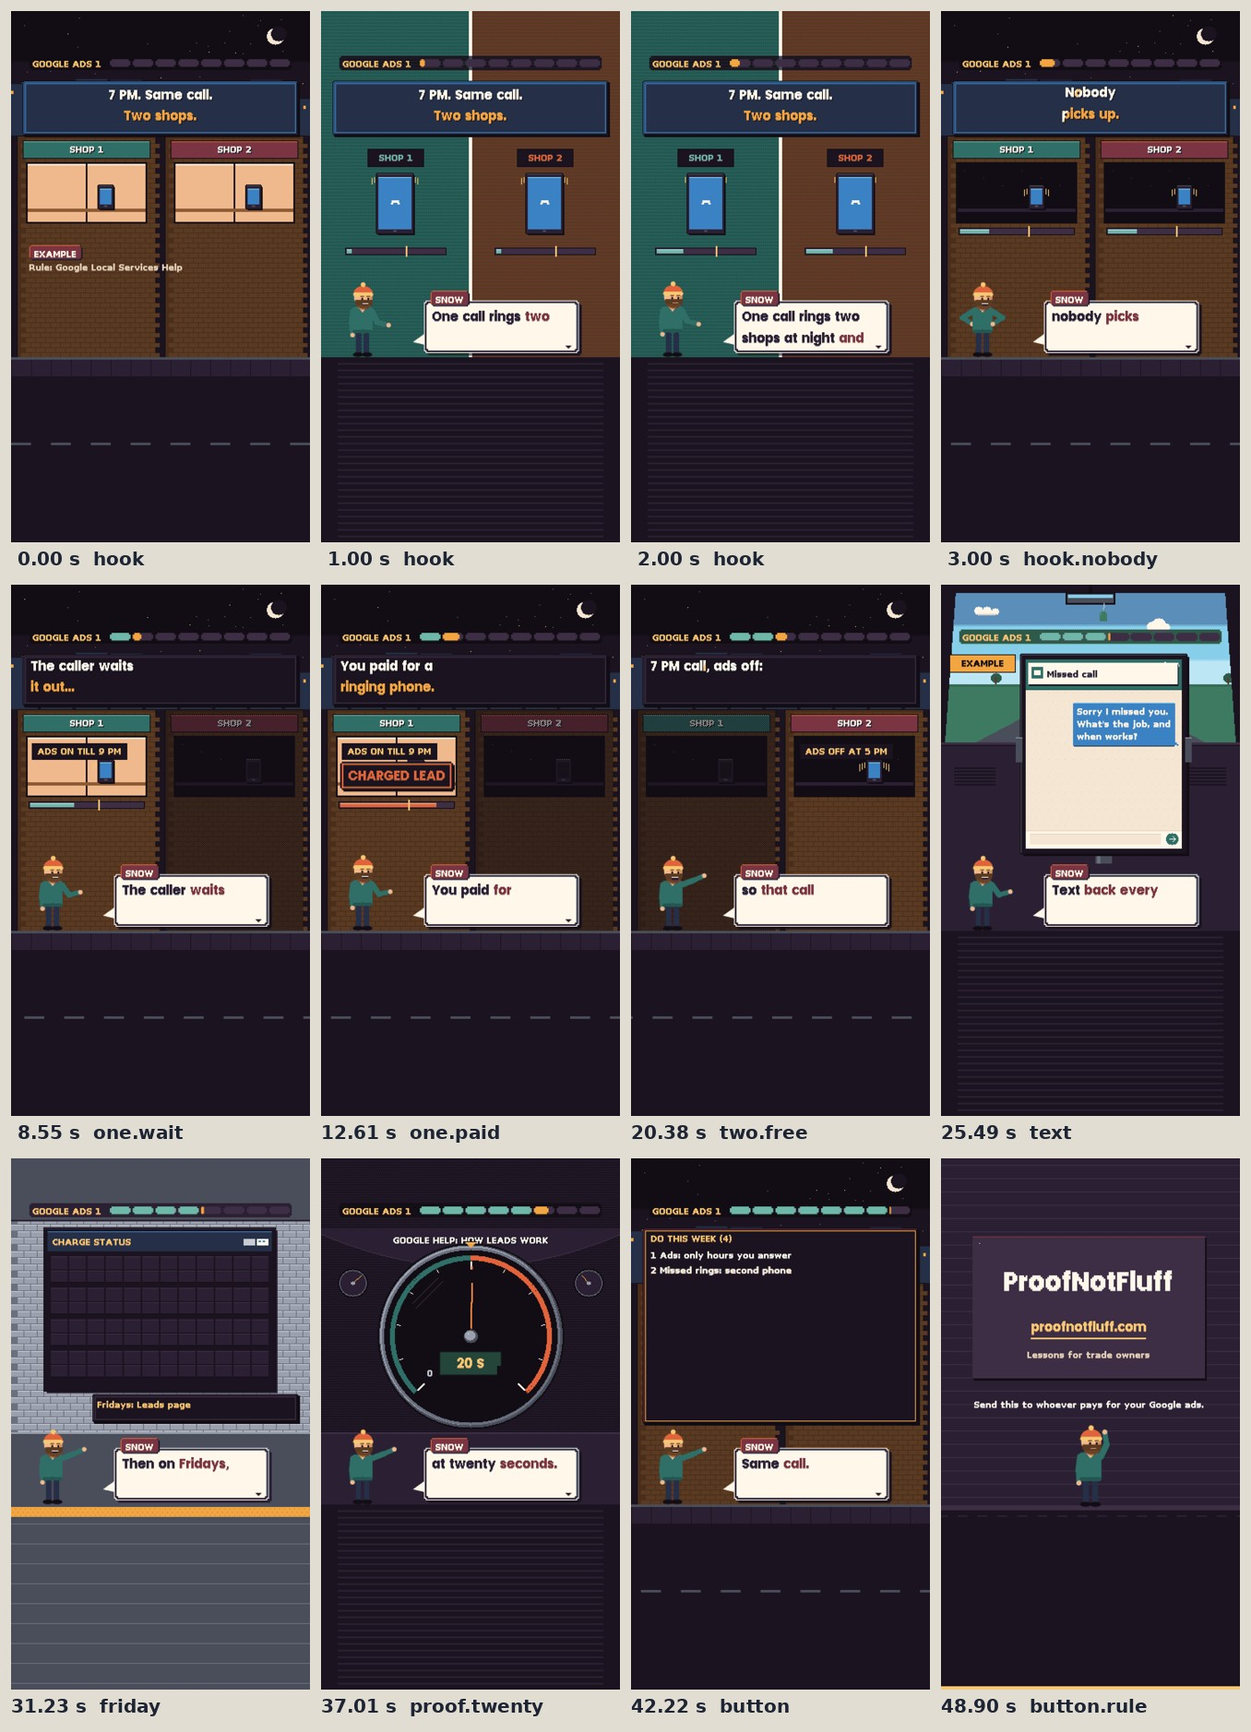
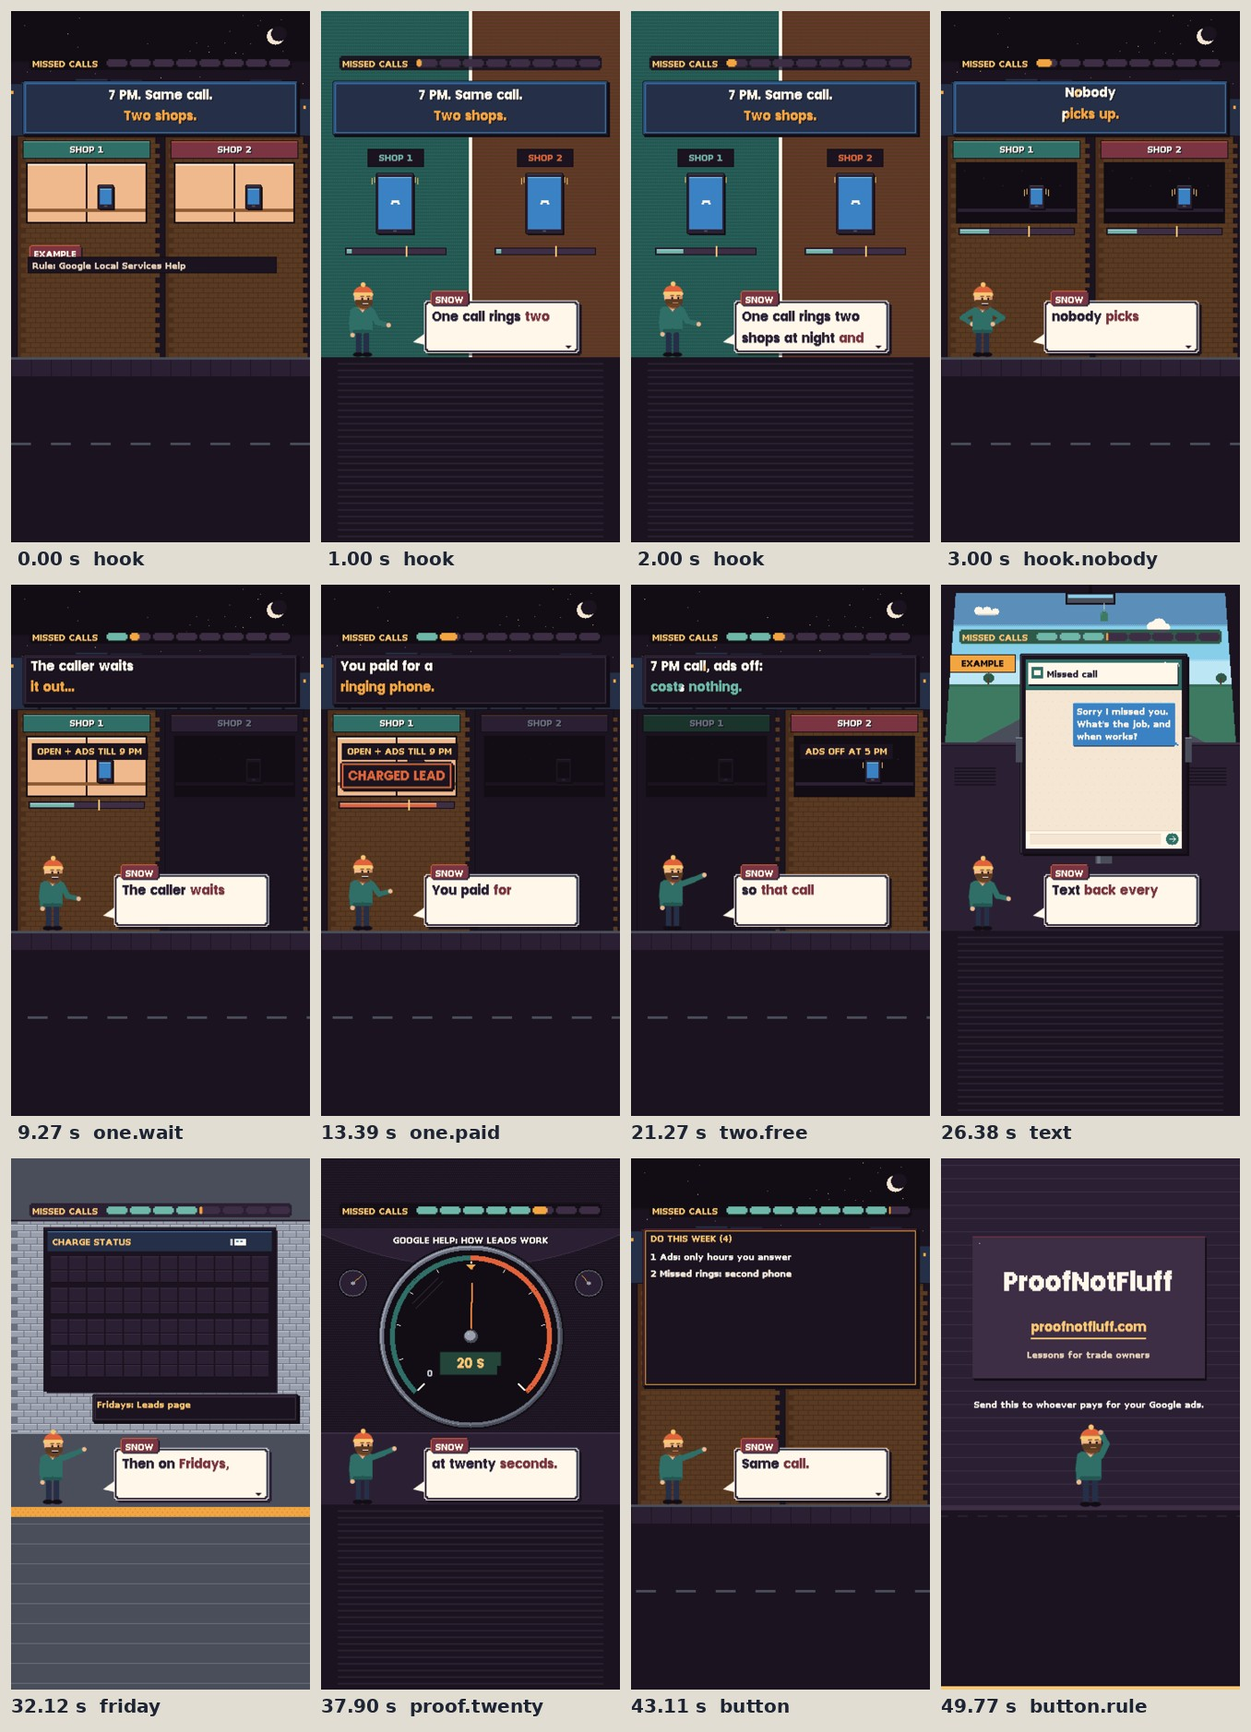
Studio: lsa-missed-calls fix round re-rendered (50.1 s, lint PASS, check PASS): shop one open + ads, gauge notch clear of the title, score counts, card sized, flat dimming, HUD MISSED CALLS
Claude-Session: https://claude.ai/code/session_01XMn4eKSfmw666ac9gXKJ94

diff --git a/video/studio/videos/2026-11-11-lsa-missed-calls/03_cues/cues.js b/video/studio/videos/2026-11-11-lsa-missed-calls/03_cues/cues.js
@@ -1,1 +1,1 @@
-window.CUES = {"schema": "pnf.studio.cues.v1", "source": "whisper medium.en int8, re-spelled from script.md", "music": {"id": "rooms", "level": 0.16, "tune": "chase"}, "duration": 49.2, "cues": [{"id": "hook", "level": 0, "quote": "One call rings two", "sfx": "pop", "shift": 0.0, "pin": null, "text": "Three shots (IMPROVE 00a). Cover, frame one, host and dialog box hidden: our own split street at night, two shopfronts side by side (SHOP 1 left in teal, SHOP 2 right in red), a phone glowing in each window; the hook on a plate up top, \"7 PM. Same call.\" / \"Two shops.\", tag EXAMPLE and \"Rule: Google Local Services Help\". By 0.8 s cut in to the two phones close up, split down the middle, both ringing, a ring bar under each; Snow and the dialog box come in. On \"Nobody\" cut to the third shot: both phones still ringing, the windows dark, \"Nobody picks up.\" on the plate.", "t": 0.0, "word": 0, "end": 4.108}, {"id": "hook.nobody", "level": 1, "quote": "nobody picks up.", "sfx": "tick", "shift": 0.0, "pin": null, "text": "The ring bars keep filling; Snow shrugs.", "t": 2.26, "word": 8, "end": 4.108}, {"id": "one", "level": 0, "quote": "Shop one runs Google's", "sfx": "whoosh", "shift": 0.0, "pin": null, "text": "The split screen, shop one's half lit and shop two's dimmed. Shop one's sign: ADS ON TILL 9 PM. The phone rings in the window.", "t": 4.108, "word": 11, "end": 14.459}, {"id": "one.wait", "level": 1, "quote": "The caller waits it", "sfx": "tick", "shift": 0.0, "pin": null, "text": "The ring bar runs past the 20 s notch; the phone's screen turns to VOICEMAIL.", "t": 7.948, "word": 20, "end": 10.388}, {"id": "one.charged", "level": 1, "quote": "That's a charged lead.", "sfx": "stamp", "shift": 0.0, "pin": null, "text": "CHARGED LEAD stamps on shop one's half.", "t": 10.388, "word": 27, "end": 12.008}, {"id": "one.paid", "level": 1, "quote": "You paid for a", "sfx": "blip", "shift": 0.0, "pin": null, "text": "A coin drops out of the window; line \"You paid for a ringing phone.\"", "t": 12.008, "word": 31, "end": 14.459}, {"id": "two", "level": 0, "quote": "Shop two runs its", "sfx": "whoosh", "shift": 0.0, "pin": null, "text": "The split flips: shop two's half lit, shop one's dimmed. The setting card on shop two's half: AD SCHEDULE = HOURS A PERSON ANSWERS.", "t": 14.459, "word": 37, "end": 24.888}, {"id": "two.five", "level": 1, "quote": "Its schedule ends at", "sfx": "tick", "shift": 0.0, "pin": null, "text": "Shop two's sign: ADS OFF AT 5 PM. The 7 PM call rings; the window is dark.", "t": 18.139, "word": 47, "end": 19.779}, {"id": "two.free", "level": 1, "quote": "so that call costs", "sfx": "pop", "shift": 0.0, "pin": null, "text": "NOT CHARGED lands in teal.", "t": 19.779, "word": 52, "end": 22.019}, {"id": "two.second", "level": 1, "quote": "Daytime misses roll to", "sfx": "blip", "shift": 0.0, "pin": null, "text": "A daytime strip: the desk phone rings out and an arrow carries it to a second phone, which lights up. Line: \"Missed rings go to a second phone.\"", "t": 22.019, "word": 57, "end": 24.888}, {"id": "text", "level": 0, "quote": "Text back every missed", "sfx": "whoosh", "shift": 0.0, "pin": null, "text": "The chat set: the phone in the truck. A MISSED CALL banner drops in; the text back types out: \"Sorry I missed you. What's the job, and when works?\" EXAMPLE tag.", "t": 24.888, "word": 64, "end": 30.628}, {"id": "text.follow", "level": 1, "quote": "follow-ups inside fifteen days", "sfx": "pop", "shift": 0.0, "pin": null, "text": "Under the phone: \"Follow-ups in 15 days: not charged again.\"", "t": 27.048, "word": 70, "end": 30.628}, {"id": "friday", "level": 0, "quote": "Then on Fridays, check", "sfx": "whoosh", "shift": 0.0, "pin": null, "text": "The split-flap board, CHARGE STATUS: CHARGED, NOT CHARGED, IN REVIEW, CREDITED flip in row by row; strip under it: \"Fridays: Leads page, Charge Status\".", "t": 30.628, "word": 77, "end": 34.769}, {"id": "proof", "level": 0, "quote": "Google's help page sets", "sfx": "whoosh", "shift": 0.0, "pin": null, "text": "The gauge as a ring timer: dial THE LINE, the needle climbs to 20 s on \"twenty\". Source tag \"Source: Google, How leads work\" up top while it is said.", "t": 34.769, "word": 88, "end": 37.909}, {"id": "proof.twenty", "level": 1, "quote": "at twenty seconds.", "sfx": "tick", "shift": 0.0, "pin": null, "text": "The readout lands on 20 s.", "t": 36.409, "word": 94, "end": 37.909}, {"id": "score", "level": 0, "quote": "Stay on past that", "sfx": "whoosh", "shift": 0.0, "pin": null, "text": "The versus screen, the scoreboard: SHOP 1 (CHARGED 1) against SHOP 2 (CHARGED 0); VS slams; WIN on shop two. Line: \"Even voicemail counts.\"", "t": 37.909, "word": 97, "end": 41.62}, {"id": "button", "level": 0, "quote": "Same call. Same night.", "sfx": "whoosh", "shift": 0.0, "pin": null, "text": "Back on the split street at night, both windows dark. The DO THIS WEEK card: 1 Ad schedule: only hours a person answers. 2 Missed rings: a second phone. 3 Text back every missed call. 4 Fridays: Charge Status. Then the rule on \"Run\": \"Run ads only when someone picks up.\"", "t": 41.62, "word": 108, "end": 49.2}, {"id": "button.rule", "level": 1, "quote": "Run the ads only", "sfx": "sting", "shift": 0.0, "pin": null, "text": "The rule lands in gold; Snow waves. Then the end card with the send line: \"Send this to whoever pays for your Google ads.\"", "t": 43.94, "word": 112, "end": 49.2}]};
+window.CUES = {"schema": "pnf.studio.cues.v1", "source": "whisper medium.en int8, re-spelled from script.md", "music": {"id": "rooms", "level": 0.16, "tune": "chase"}, "duration": 50.068, "cues": [{"id": "hook", "level": 0, "quote": "One call rings two", "sfx": "pop", "shift": 0.0, "pin": null, "text": "Three shots (IMPROVE 00a). Cover, frame one, host and dialog box hidden: our own split street at night, two shopfronts side by side (SHOP 1 left in teal, SHOP 2 right in red), a phone glowing in each window; the hook on a plate up top, \"7 PM. Same call.\" / \"Two shops.\", tag EXAMPLE and \"Rule: Google Local Services Help\". By 0.8 s cut in to the two phones close up, split down the middle, both ringing, a ring bar under each; Snow and the dialog box come in. On \"Nobody\" cut to the third shot: both phones still ringing, the windows dark, \"Nobody picks up.\" on the plate.", "t": 0.0, "word": 0, "end": 4.108}, {"id": "hook.nobody", "level": 1, "quote": "nobody picks up.", "sfx": "tick", "shift": 0.0, "pin": null, "text": "The ring bars keep filling; Snow shrugs.", "t": 2.26, "word": 8, "end": 4.108}, {"id": "one", "level": 0, "quote": "Shop one is open", "sfx": "whoosh", "shift": 0.0, "pin": null, "text": "The split screen, shop one's half lit and shop two's dimmed. Shop one's sign: ADS ON TILL 9 PM. The phone rings in the window.", "t": 4.108, "word": 11, "end": 15.347}, {"id": "one.wait", "level": 1, "quote": "The caller waits it", "sfx": "tick", "shift": 0.0, "pin": null, "text": "The ring bar runs past the 20 s notch; the phone's screen turns to VOICEMAIL.", "t": 8.668, "word": 23, "end": 11.208}, {"id": "one.charged", "level": 1, "quote": "That's a charged lead.", "sfx": "stamp", "shift": 0.0, "pin": null, "text": "CHARGED LEAD stamps on shop one's half.", "t": 11.208, "word": 30, "end": 12.788}, {"id": "one.paid", "level": 1, "quote": "You paid for a", "sfx": "blip", "shift": 0.0, "pin": null, "text": "A coin drops out of the window; line \"You paid for a ringing phone.\"", "t": 12.788, "word": 34, "end": 15.347}, {"id": "two", "level": 0, "quote": "Shop two runs its", "sfx": "whoosh", "shift": 0.0, "pin": null, "text": "The split flips: shop two's half lit, shop one's dimmed. The setting card on shop two's half: AD SCHEDULE = HOURS A PERSON ANSWERS.", "t": 15.347, "word": 40, "end": 25.776}, {"id": "two.five", "level": 1, "quote": "Its schedule ends at", "sfx": "tick", "shift": 0.0, "pin": null, "text": "Shop two's sign: ADS OFF AT 5 PM. The 7 PM call rings; the window is dark.", "t": 19.027, "word": 50, "end": 20.667}, {"id": "two.free", "level": 1, "quote": "so that call costs", "sfx": "pop", "shift": 0.0, "pin": null, "text": "NOT CHARGED lands in teal.", "t": 20.667, "word": 55, "end": 22.907}, {"id": "two.second", "level": 1, "quote": "Daytime misses roll to", "sfx": "blip", "shift": 0.0, "pin": null, "text": "A daytime strip: the desk phone rings out and an arrow carries it to a second phone, which lights up. Line: \"Missed rings go to a second phone.\"", "t": 22.907, "word": 60, "end": 25.776}, {"id": "text", "level": 0, "quote": "Text back every missed", "sfx": "whoosh", "shift": 0.0, "pin": null, "text": "The chat set: the phone in the truck. A MISSED CALL banner drops in; the text back types out: \"Sorry I missed you. What's the job, and when works?\" EXAMPLE tag.", "t": 25.776, "word": 67, "end": 31.516}, {"id": "text.follow", "level": 1, "quote": "follow-ups inside fifteen days", "sfx": "pop", "shift": 0.0, "pin": null, "text": "Under the phone: \"Follow-ups in 15 days: not charged again.\"", "t": 27.936, "word": 73, "end": 31.516}, {"id": "friday", "level": 0, "quote": "Then on Fridays, check", "sfx": "whoosh", "shift": 0.0, "pin": null, "text": "The split-flap board, CHARGE STATUS: CHARGED, NOT CHARGED, IN REVIEW, CREDITED flip in row by row; strip under it: \"Fridays: Leads page, Charge Status\".", "t": 31.516, "word": 80, "end": 35.657}, {"id": "proof", "level": 0, "quote": "Google's help page sets", "sfx": "whoosh", "shift": 0.0, "pin": null, "text": "The gauge as a ring timer: dial THE LINE, the needle climbs to 20 s on \"twenty\". Source tag \"Source: Google, How leads work\" up top while it is said.", "t": 35.657, "word": 91, "end": 38.797}, {"id": "proof.twenty", "level": 1, "quote": "at twenty seconds.", "sfx": "tick", "shift": 0.0, "pin": null, "text": "The readout lands on 20 s.", "t": 37.297, "word": 97, "end": 38.797}, {"id": "score", "level": 0, "quote": "Stay on past that", "sfx": "whoosh", "shift": 0.0, "pin": null, "text": "The versus screen, the scoreboard: SHOP 1 (CHARGED 1) against SHOP 2 (CHARGED 0); VS slams; WIN on shop two. Line: \"Even voicemail counts.\"", "t": 38.797, "word": 100, "end": 42.508}, {"id": "button", "level": 0, "quote": "Same call. Same night.", "sfx": "whoosh", "shift": 0.0, "pin": null, "text": "Back on the split street at night, both windows dark. The DO THIS WEEK card: 1 Ad schedule: only hours a person answers. 2 Missed rings: a second phone. 3 Text back every missed call. 4 Fridays: Charge Status. Then the rule on \"Run\": \"Run ads only when someone picks up.\"", "t": 42.508, "word": 111, "end": 50.068}, {"id": "button.rule", "level": 1, "quote": "Run the ads only", "sfx": "sting", "shift": 0.0, "pin": null, "text": "The rule lands in gold; Snow waves. Then the end card with the send line: \"Send this to whoever pays for your Google ads.\"", "t": 44.828, "word": 115, "end": 50.068}]};

diff --git a/video/studio/videos/2026-11-11-lsa-missed-calls/04_scene/scene.js b/video/studio/videos/2026-11-11-lsa-missed-calls/04_scene/scene.js
@@ -116,7 +116,7 @@ const street = (k, o = {}) => {
     /* the sign in the window (hours) */
     if (o.signs && o.signs[i]) { const sg = o.signs[i], sw = Math.round(d.tw(sg.text)) + 12, sx = wx + 6, sy = wy + 8, dy = sg.at != null && d.fr(sg.at) < 4 ? [-8, -4, -1, 1][Math.max(0, d.fr(sg.at))] : 0;
       if (sg.at == null || d.T >= sg.at) { P(sx - 1, sy - 1 + dy, sw + 2, 20, INK); P(sx, sy + dy, sw, 18, sg.c || '#1B1420'); tx(sg.text, sx + 6, sy + 2 + dy, {color: sg.tc || GOLD}); } }
-    if (dim) dith(s.x, 151, s.w, 266, '#120D14');
+    if (dim) { k.ctx.save(); k.ctx.globalAlpha = 0.62; P(s.x, 151, s.w, 266, '#120D14'); k.ctx.restore(); }
   });
   /* the ring bars, inside each shop under its window (clear of the host's band) */
   (o.bars || []).forEach((b, i) => { if (b) ringBar(d, SHOPS[i].x + 14, 262, SHOPS[i].w - 28, b.at, b.dur, b); });
@@ -151,7 +151,7 @@ window.SCENE = {
   look: 'arcade',
   images: [],
   host_name: 'Snow',
-  hud: 'GOOGLE ADS 1',
+  hud: 'MISSED CALLS',
   sendLine: 'Send this to whoever pays for your Google ads.',
   transitions: {one: 'dissolve', text: 'levelselect', friday: 'dissolve', proof: 'levelselect', score: 'dissolve', button: 'gameover'},
   trauma: {'one.charged': 0.8},
@@ -177,7 +177,8 @@ window.SCENE = {
       const d = street(k, {lit: [true, true], ring: [true, true]});
       hookPlate(k, d, [`${n.callAt.shown}. Same call.`, 'Two shops.']);
       k.chip('EXAMPLE', 66, 846, {size: 30});
-      k.text('Rule: Google Local Services Help', 66, 906, {size: 30, color: SAND});
+      d.P(20, 296, 300, 20, INK); d.P(21, 297, 298, 18, '#1B1420');
+      k.text('Rule: Google Local Services Help', 78, 900, {size: 39, color: SAND});
       return {host: false, speech: false};
     },
 
@@ -187,9 +188,9 @@ window.SCENE = {
       const n = k.data.numbers, t0 = k.S('one'), tSign = wordT(k, 'one', /^till/i, 2.4), tWait = k.S('one.wait'), tVm = wordT(k, 'one.wait', /^voicemail/i, 1.2);
       const tCh = k.S('one.charged'), tPaid = k.S('one.paid'), tPhone = wordT(k, 'one.paid', /^ringing/i, 0.8);
       const d = street(k, {lit: [true, false], dim: [false, true], ring: [T >= t0 + 0.3 && T < tVm, false], screen: [T >= tVm ? '#7A3442' : null, null],
-        signs: [{text: `ADS ON TILL ${n.oneUntil.shown}`, at: tSign}, null], bars: [{at: tWait, dur: 1.3, to: 0.85}, null]});
+        signs: [{text: `OPEN + ADS TILL ${n.oneUntil.shown}`, at: tSign}, null], bars: [{at: tWait, dur: 1.3, to: 0.85}, null]});
       d.win(14, 84, 332, 62, {base: '#1B1420', hi: '#3D2E45', lo: INK, rule: '#3D2E45'});
-      const say = T >= tPaid ? ['You paid for a', 'ringing phone.', tPaid] : T >= tVm ? [`Caller waits ${n.secs.shown} s+`, 'into voicemail.', tVm] : T >= tWait ? ['The caller waits', 'it out...', tWait] : [`Shop 1, ${n.callAt.shown}:`, 'Google ads still on.', t0 + 0.1];
+      const say = T >= tPaid ? ['You paid for a', 'ringing phone.', tPaid] : T >= tVm ? [`Caller waits ${n.secs.shown} s+`, 'into voicemail.', tVm] : T >= tWait ? ['The caller waits', 'it out...', tWait] : [`Shop 1, ${n.callAt.shown}:`, 'open, ads still on.', t0 + 0.1];
       k.slam(say[0], 72, 262, say[2], {size: 66, color: CREAM, from: 0.4, drop: INK});
       k.slam(say[1], 72, 336, say[2] + 0.06, {size: 66, color: 'accent', from: 0.4, drop: INK});
       if (T >= tVm && T < tCh) { const sx = SHOPS[0].x + 12 + 75 + 14; d.P(sx - 16, 238 - 12, 50, 12, INK); d.tx('VOICEMAIL', sx + 9, 238 - 12, {size: 30, color: CREAM, align: 'center', lint: false}); }
@@ -220,8 +221,8 @@ window.SCENE = {
       const d = street(k, {lit: [false, !after5], dim: [true, false], ring: [false, after5 && T < tFree + 0.6],
         signs: [null, after5 ? {text: `ADS OFF AT ${n.twoUntil.shown}`, at: tFive} : {text: 'ADS: STAFFED', at: t0 + 0.2, tc: TEAL}]});
       d.win(14, 84, 332, 62, {base: '#1B1420', hi: '#3D2E45', lo: INK, rule: '#3D2E45'});
-      if (T < tFive) { k.slam('Ad schedule =', 72, 262, t0 + 0.1, {size: 66, color: CREAM, from: 0.4, drop: INK}); k.slam('hours a person answers', 72, 336, wordT(k, 'two', /^person/i, 1.6), {size: 66, color: TEAL, from: 0.4, drop: INK}); }
-      else { k.slam(`${n.callAt.shown} call, ads off:`, 72, 262, tFive, {size: 66, color: CREAM, from: 0.4, drop: INK}); if (T >= tFree) k.slam('costs nothing.', 72, 336, tFree, {size: 66, color: TEAL, from: 0.4, drop: INK}); }
+      if (T < tFive) { k.slam('Ad schedule =', 72, 262, t0 + 0.1, {size: 66, color: CREAM, from: 0.4, drop: INK}); k.slam('hours a person answers', 72, 336, t0 + 0.16, {size: 66, color: TEAL, from: 0.4, drop: INK}); }
+      else { k.slam(`${n.callAt.shown} call, ads off:`, 72, 262, tFive, {size: 66, color: CREAM, from: 0.4, drop: INK}); k.slam('costs nothing.', 72, 336, tFive + 0.06, {size: 66, color: TEAL, from: 0.4, drop: INK}); }
       if (T >= tFree) stampBox(k, 'NOT CHARGED', 700, 640, tFree, {color: TEAL});
       return host(k, k.live('two.free') ? 'point' : null);
     },
@@ -230,7 +231,7 @@ window.SCENE = {
     /* "follow-ups" the 15-day line lands in a gold box over the chat.                                                   */
     text: (k, T) => {
       const n = k.data.numbers, d = px(k), t0 = k.S('text'), tEvery = wordT(k, 'text', /^every/i, 0.6), tFol = k.S('text.follow');
-      k.sets.chat({who: 'Missed caller', clock: '7:02', notify: {text: 'Missed call', at: t0 + 0.05, dur: 1.2},
+      k.sets.chat({who: 'Missed caller', clock: '9:14', notify: {text: 'Missed call', at: t0 + 0.05, dur: 1.2},
         msgs: [{me: true, text: "Sorry I missed you. What's the job, and when works?", at: tEvery, read: tEvery + 1.6}]});
       d.P(10, 84, 80, 22, INK); d.P(11, 85, 78, 20, ORANGE); d.tx('EXAMPLE', 50, 88, {size: 30, color: INK, align: 'center'});
       if (T >= tFol) {
@@ -265,7 +266,7 @@ window.SCENE = {
       /* bezel marks the line instead, dropping in on "line" */
       { const at = Math.PI * 1.5; d.P(Math.round(cx + Math.cos(at) * (R - 32)) - 16, Math.round(cy + Math.sin(at) * (R - 32)) - 12, 32, 16, '#120D14'); }
       const tLine = wordT(k, 'proof', /^line/i, 1.4);
-      if (T >= tLine) { const f = d.fr(tLine), lift = f < 4 ? [-6, -3, -1, 1][f] : 0; for (let j = 0; j < 7; j++) d.P(cx - 6 + j, 101 + j + lift, 13 - 2 * j, 1, j ? ORANGE : GOLD); d.P(cx - 7, 100 + lift, 15, 1, INK); }
+      if (T >= tLine) { const f = d.fr(tLine), lift = f < 4 ? [-6, -3, -1, 1][f] : 0; for (let j = 0; j < 6; j++) d.P(cx - 5 + j, 128 + j + lift, 11 - 2 * j, 1, j ? ORANGE : GOLD); d.P(cx - 6, 127 + lift, 13, 1, INK); }
       return host(k, k.live('proof.twenty') ? 'point' : null);
     },
 
@@ -276,7 +277,10 @@ window.SCENE = {
       k.sets.versus({a: {name: 'SHOP 1', icon: 'phone', stats: [{label: 'CHARGED', value: n.oneCharged.value, max: 1, text: n.oneCharged.shown}]},
         b: {name: 'SHOP 2', icon: 'clock', stats: [{label: 'CHARGED', value: n.twoCharged.value, max: 1, text: n.twoCharged.shown}]},
         at: t0 - 0.05, vsAt: t0 + 0.35, winner: 'b', winAt: tVm, winText: 'WIN'});
-      if (T >= tVm) { plate(d, 98, 280, 248, 38); k.slam('Even voicemail counts.', 312, 870, tVm, {size: 39, color: GOLD, from: 0.4}); }
+      const tCnt = t0 + 0.8;
+      if (T >= tCnt) { k.slam(n.oneCharged.shown, 270, 726, tCnt, {size: 132, color: RED, align: 'center', from: 0.5, drop: INK}); k.slam(n.twoCharged.shown, 738, 726, tCnt + 0.15, {size: 132, color: TEAL, align: 'center', from: 0.5, drop: INK}); }
+      plate(d, 98, 280, 248, 38); k.slam('Even voicemail counts.', 312, 870, t0 + 0.2, {size: 39, color: GOLD, from: 0.4});
+      if (T >= tVm) k.sweep(312, 912, k.measure('Even voicemail counts.', {size: 39}), 6, tVm, {color: 'accent'});
       return host(k, k.live('score') ? 'point' : null);
     },
 
@@ -286,12 +290,12 @@ window.SCENE = {
       const n = k.data.numbers, t0 = k.S('button'), tRun = k.S('button.rule');
       const d = street(k, {lit: [false, false]});
       const up = d.ease(t0 + 0.05, 8, 160);
-      d.clip(0, 0, 360, 322, () => d.win(14, 84 + up, 332, 236, {base: '#1B1420', hi: '#7A3442', lo: INK, rule: ORANGE}));
+      d.clip(0, 0, 360, 322, () => d.win(14, 84 + up, 332, 192, {base: '#1B1420', hi: '#7A3442', lo: INK, rule: ORANGE}));
       if (up === 0) {
         k.text(`DO THIS WEEK (${n.steps.shown})`, 72, 270, {size: 39, color: GOLD});
         ['1 Ads: only hours you answer', '2 Missed rings: second phone', '3 Text back every missed call', '4 Fridays: Charge Status'].forEach((s, i) => {
-          if (T >= t0 + 0.2 + i * 0.25) k.slam(s, 72, 330 + i * 54, t0 + 0.2 + i * 0.25, {size: 39, color: CREAM, from: 0.3}); });
-        if (T >= tRun) { k.slam('Run ads only when', 72, 600, tRun, {size: 66, color: CREAM, from: 0.4, drop: INK}); k.slam('someone picks up.', 72, 680, tRun + 0.1, {size: 66, color: GOLD, from: 0.4, drop: INK}); k.sweep(72, 756, k.measure('someone picks up.', {size: 66}), 6, tRun + 0.4, {color: 'accent'}); }
+          if (T >= t0 + 0.2 + i * 0.25) k.slam(s, 72, 336 + i * 62, t0 + 0.2 + i * 0.25, {size: 39, color: CREAM, from: 0.3}); });
+        if (T >= tRun) { k.slam('Run ads only when', 72, 610, tRun, {size: 66, color: CREAM, from: 0.4, drop: INK}); k.slam('someone picks up.', 72, 690, tRun + 0.1, {size: 66, color: GOLD, from: 0.4, drop: INK}); k.sweep(72, 766, k.measure('someone picks up.', {size: 66}), 6, tRun + 0.4, {color: 'accent'}); }
       }
       return host(k, T >= tRun + 0.8 ? 'wave' : (k.live('button') ? 'point' : null));
     },

diff --git a/video/studio/videos/2026-11-11-lsa-missed-calls/02_transcript/mouth.js b/video/studio/videos/2026-11-11-lsa-missed-calls/02_transcript/mouth.js
@@ -1,1 +1,1 @@
[2 lines of base64/hex data omitted]
